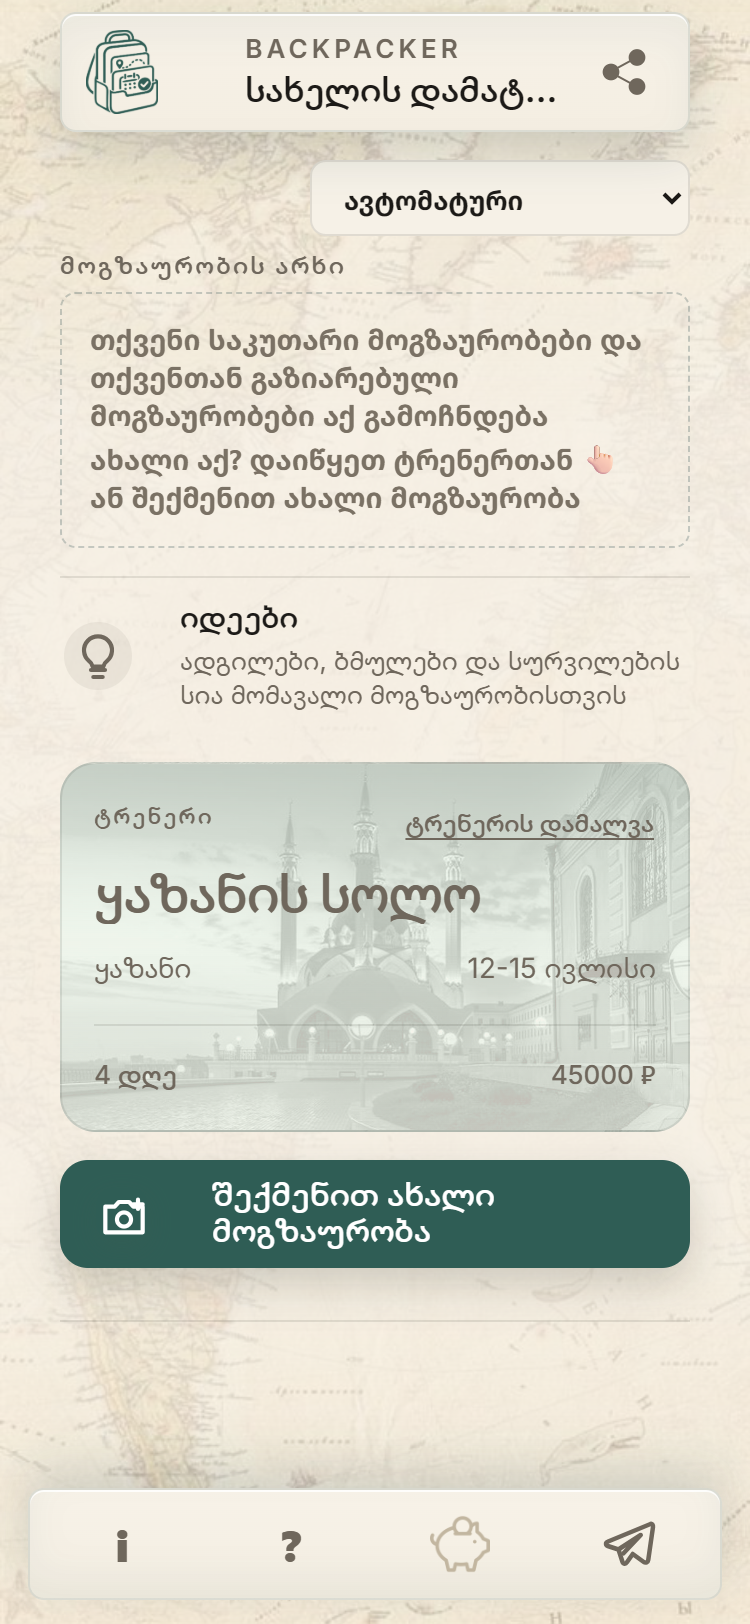
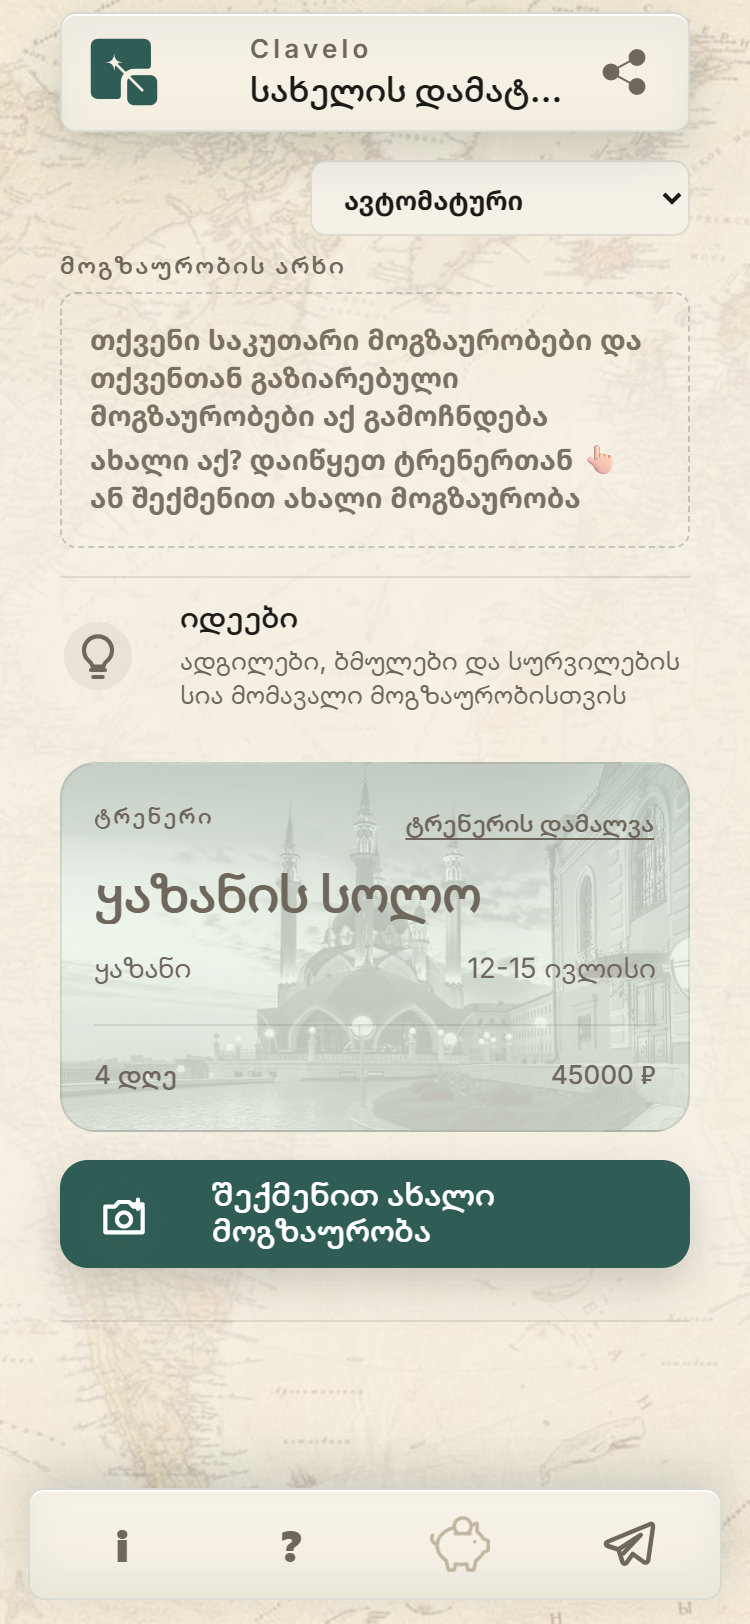
Finish Clavelo landing visuals
- Apply the approved lockup and icon assets across the site
- Refresh localized App captures and the social preview
- Fix German voice consistency and add visual regression checks

Changed region(s): [[0.3067, 0.0, 0.7053, 0.0924], [0.092, 0.0, 0.2147, 0.0924]]

diff --git a/index.html b/index.html
@@ -10,7 +10,11 @@
       content="Keep bookings, places, plans, files and costs together. Manage your own trip or share one current mobile program with your group."
     />
     <link rel="canonical" href="https://backpackerapp.cc/" />
-    <link rel="icon" href="./assets/logo.svg" type="image/svg+xml" />
+    <link rel="icon" href="./assets/clavelo-mark-simple.svg" type="image/svg+xml" />
+    <link rel="icon" href="./assets/favicon-48.png" sizes="48x48" type="image/png" />
+    <link rel="icon" href="./assets/favicon-32.png" sizes="32x32" type="image/png" />
+    <link rel="icon" href="./assets/favicon-16.png" sizes="16x16" type="image/png" />
+    <link rel="apple-touch-icon" href="./assets/apple-touch-icon.png" sizes="180x180" />
     <link rel="stylesheet" href="./styles.css" />
 
     <meta property="og:type" content="website" />
@@ -66,9 +70,8 @@
 
     <header class="site-header">
       <div class="wrap">
-        <a class="brand" href="./">
-          <img src="./assets/logo.svg" alt="" width="22" height="26" />
-          <span>Clavelo</span>
+        <a class="brand" href="./" aria-label="Clavelo">
+          <img src="./assets/logo.svg" alt="" width="116" height="28" />
         </a>
         <label class="language-control">
           <span class="sr-only" data-i18n="language.label">Language</span>
@@ -330,9 +333,8 @@
 
     <footer class="site-footer">
       <div class="wrap">
-        <a class="brand" href="./">
-          <img src="./assets/logo.svg" alt="" width="22" height="26" />
-          <span>Clavelo</span>
+        <a class="brand" href="./" aria-label="Clavelo">
+          <img src="./assets/logo.svg" alt="" width="116" height="28" />
         </a>
 
         <ul class="footer-links">

diff --git a/i18n.js b/i18n.js
@@ -229,7 +229,7 @@
       "action.open": "Clavelo öffnen",
       "hero.kicker": "Die ganze Reise an einem Ort",
       "hero.title": "Jedes Detail an seinem Platz. Mehr Raum für das Erlebnis.",
-      "hero.lead": "Buchungen, Orte, Pläne, Dateien und Kosten bleiben zusammen. Verwalten Sie Ihre eigene Reise oder teilen Sie ein aktuelles Programm mit Ihrer Gruppe.",
+      "hero.lead": "Buchungen, Orte, Pläne, Dateien und Kosten bleiben zusammen. Verwalte deine eigene Reise oder teile ein aktuelles Programm mit deiner Gruppe.",
       "hero.bullet.tickets": "Tickets",
       "hero.bullet.stays": "Unterkünfte",
       "hero.bullet.places": "Orte",
@@ -284,10 +284,10 @@
       "budget.imageAlt": "Budgetübersicht mit bezahlten, reservierten und verfügbaren Beträgen.",
       "organizer.kicker": "Organisator-Modus",
       "organizer.title": "Ein aktuelles Programm für die ganze Gruppe",
-      "organizer.body1": "Erstellen und aktualisieren Sie das Reiseprogramm, wenn sich Pläne ändern.",
-      "organizer.body2": "Teilen Sie das aktuelle Programm, den Preis, die Bedingungen und ausgewählte Unterlagen mit den Teilnehmenden.",
-      "organizer.body3": "Halten Sie Ihre interne Kalkulation privat.",
-      "closing.title": "Bringen Sie jedes Reisedetail an seinen Platz",
+      "organizer.body1": "Erstelle und aktualisiere das Reiseprogramm, wenn sich Pläne ändern.",
+      "organizer.body2": "Teile das aktuelle Programm, den Preis, die Bedingungen und ausgewählte Unterlagen mit den Teilnehmenden.",
+      "organizer.body3": "Halte deine interne Kalkulation privat.",
+      "closing.title": "Bringe jedes Reisedetail an seinen Platz",
       "footer.privacy": "Datenschutzerklärung",
     },
     ka: {

diff --git a/terms/index.html b/terms/index.html
@@ -9,7 +9,11 @@
          но текста условий пока нет. До его появления она не индексируется и
          не связана ссылкой из подвала. -->
     <meta name="robots" content="noindex, nofollow" />
-    <link rel="icon" href="../assets/logo.svg" type="image/svg+xml" />
+    <link rel="icon" href="../assets/clavelo-mark-simple.svg" type="image/svg+xml" />
+    <link rel="icon" href="../assets/favicon-48.png" sizes="48x48" type="image/png" />
+    <link rel="icon" href="../assets/favicon-32.png" sizes="32x32" type="image/png" />
+    <link rel="icon" href="../assets/favicon-16.png" sizes="16x16" type="image/png" />
+    <link rel="apple-touch-icon" href="../assets/apple-touch-icon.png" sizes="180x180" />
     <link rel="stylesheet" href="../styles.css" />
   </head>
 
@@ -18,9 +22,8 @@
 
     <header class="site-header">
       <div class="wrap">
-        <a class="brand" href="../">
-          <img src="../assets/logo.svg" alt="" width="22" height="26" />
-          <span>Clavelo</span>
+        <a class="brand" href="../" aria-label="Clavelo">
+          <img src="../assets/logo.svg" alt="" width="116" height="28" />
         </a>
       </div>
     </header>
@@ -55,9 +58,8 @@
 
     <footer class="site-footer">
       <div class="wrap">
-        <a class="brand" href="../">
-          <img src="../assets/logo.svg" alt="" width="22" height="26" />
-          <span>Clavelo</span>
+        <a class="brand" href="../" aria-label="Clavelo">
+          <img src="../assets/logo.svg" alt="" width="116" height="28" />
         </a>
         <p class="copyright">© 2026 Clavelo</p>
       </div>

diff --git a/privacy/index.html b/privacy/index.html
@@ -10,7 +10,11 @@
       content="Privacy policy for the Backpacker Travel Capture browser extension. English and Russian."
     />
     <link rel="canonical" href="https://backpackerapp.cc/privacy/" />
-    <link rel="icon" href="../assets/logo.svg" type="image/svg+xml" />
+    <link rel="icon" href="../assets/clavelo-mark-simple.svg" type="image/svg+xml" />
+    <link rel="icon" href="../assets/favicon-48.png" sizes="48x48" type="image/png" />
+    <link rel="icon" href="../assets/favicon-32.png" sizes="32x32" type="image/png" />
+    <link rel="icon" href="../assets/favicon-16.png" sizes="16x16" type="image/png" />
+    <link rel="apple-touch-icon" href="../assets/apple-touch-icon.png" sizes="180x180" />
     <link rel="stylesheet" href="../styles.css" />
   </head>
 
@@ -19,9 +23,8 @@
 
     <header class="site-header">
       <div class="wrap">
-        <a class="brand" href="../">
-          <img src="../assets/logo.svg" alt="" width="22" height="26" />
-          <span>Clavelo</span>
+        <a class="brand" href="../" aria-label="Clavelo">
+          <img src="../assets/logo.svg" alt="" width="116" height="28" />
         </a>
       </div>
     </header>
@@ -431,9 +434,8 @@
 
     <footer class="site-footer">
       <div class="wrap">
-        <a class="brand" href="../">
-          <img src="../assets/logo.svg" alt="" width="22" height="26" />
-          <span>Clavelo</span>
+        <a class="brand" href="../" aria-label="Clavelo">
+          <img src="../assets/logo.svg" alt="" width="116" height="28" />
         </a>
         <p class="copyright">© 2026 Clavelo</p>
       </div>

diff --git a/404.html b/404.html
@@ -6,7 +6,11 @@
     <meta name="theme-color" content="#2f5d55" />
     <title>Страница не найдена — Clavelo</title>
     <meta name="robots" content="noindex" />
-    <link rel="icon" href="/assets/logo.svg" type="image/svg+xml" />
+    <link rel="icon" href="/assets/clavelo-mark-simple.svg" type="image/svg+xml" />
+    <link rel="icon" href="/assets/favicon-48.png" sizes="48x48" type="image/png" />
+    <link rel="icon" href="/assets/favicon-32.png" sizes="32x32" type="image/png" />
+    <link rel="icon" href="/assets/favicon-16.png" sizes="16x16" type="image/png" />
+    <link rel="apple-touch-icon" href="/assets/apple-touch-icon.png" sizes="180x180" />
     <!-- Cloudflare Pages отдаёт этот файл с любого пути, поэтому ссылки здесь
          абсолютные от корневого домена, а не относительные. -->
     <link rel="stylesheet" href="/styles.css" />
@@ -15,9 +19,8 @@
   <body>
     <header class="site-header">
       <div class="wrap">
-        <a class="brand" href="/">
-          <img src="/assets/logo.svg" alt="" width="22" height="26" />
-          <span>Clavelo</span>
+        <a class="brand" href="/" aria-label="Clavelo">
+          <img src="/assets/logo.svg" alt="" width="116" height="28" />
         </a>
       </div>
     </header>

diff --git a/styles.css b/styles.css
@@ -526,8 +526,8 @@ html:lang(hy) body {
 }
 
 .brand img {
-  width: 22px;
-  height: 26px;
+  width: 116px;
+  height: 28px;
   object-fit: contain;
 }
 

diff --git a/README.md b/README.md
@@ -35,10 +35,11 @@ Cloudflare Pages project для `backpacker-site` с custom domain
 `backpackerapp.cc`. Существующий `backpacker-app` / `app.backpackerapp.cc`
 к этому deployment не относится.
 
-Текстовая часть перехода на Clavelo готовится отдельно от графики. Текущие
-скриншоты, `assets/logo.svg` и `assets/og-image.jpg` не заменяются временными
-файлами: они будут обновлены только из утверждённого финального asset pack.
-До этого ветка ребрендинга не предназначена для публикации.
+Текстовая часть перехода на Clavelo и утверждённый финальный logo asset pack
+интегрированы в release candidate. Бренд-видимые кадры приложения и
+`assets/og-image.jpg` переснимаются только из локального candidate App, без
+временных логотипов. Ветка ребрендинга не предназначена для публикации до
+отдельного release gate.
 
 ## Структура
 
